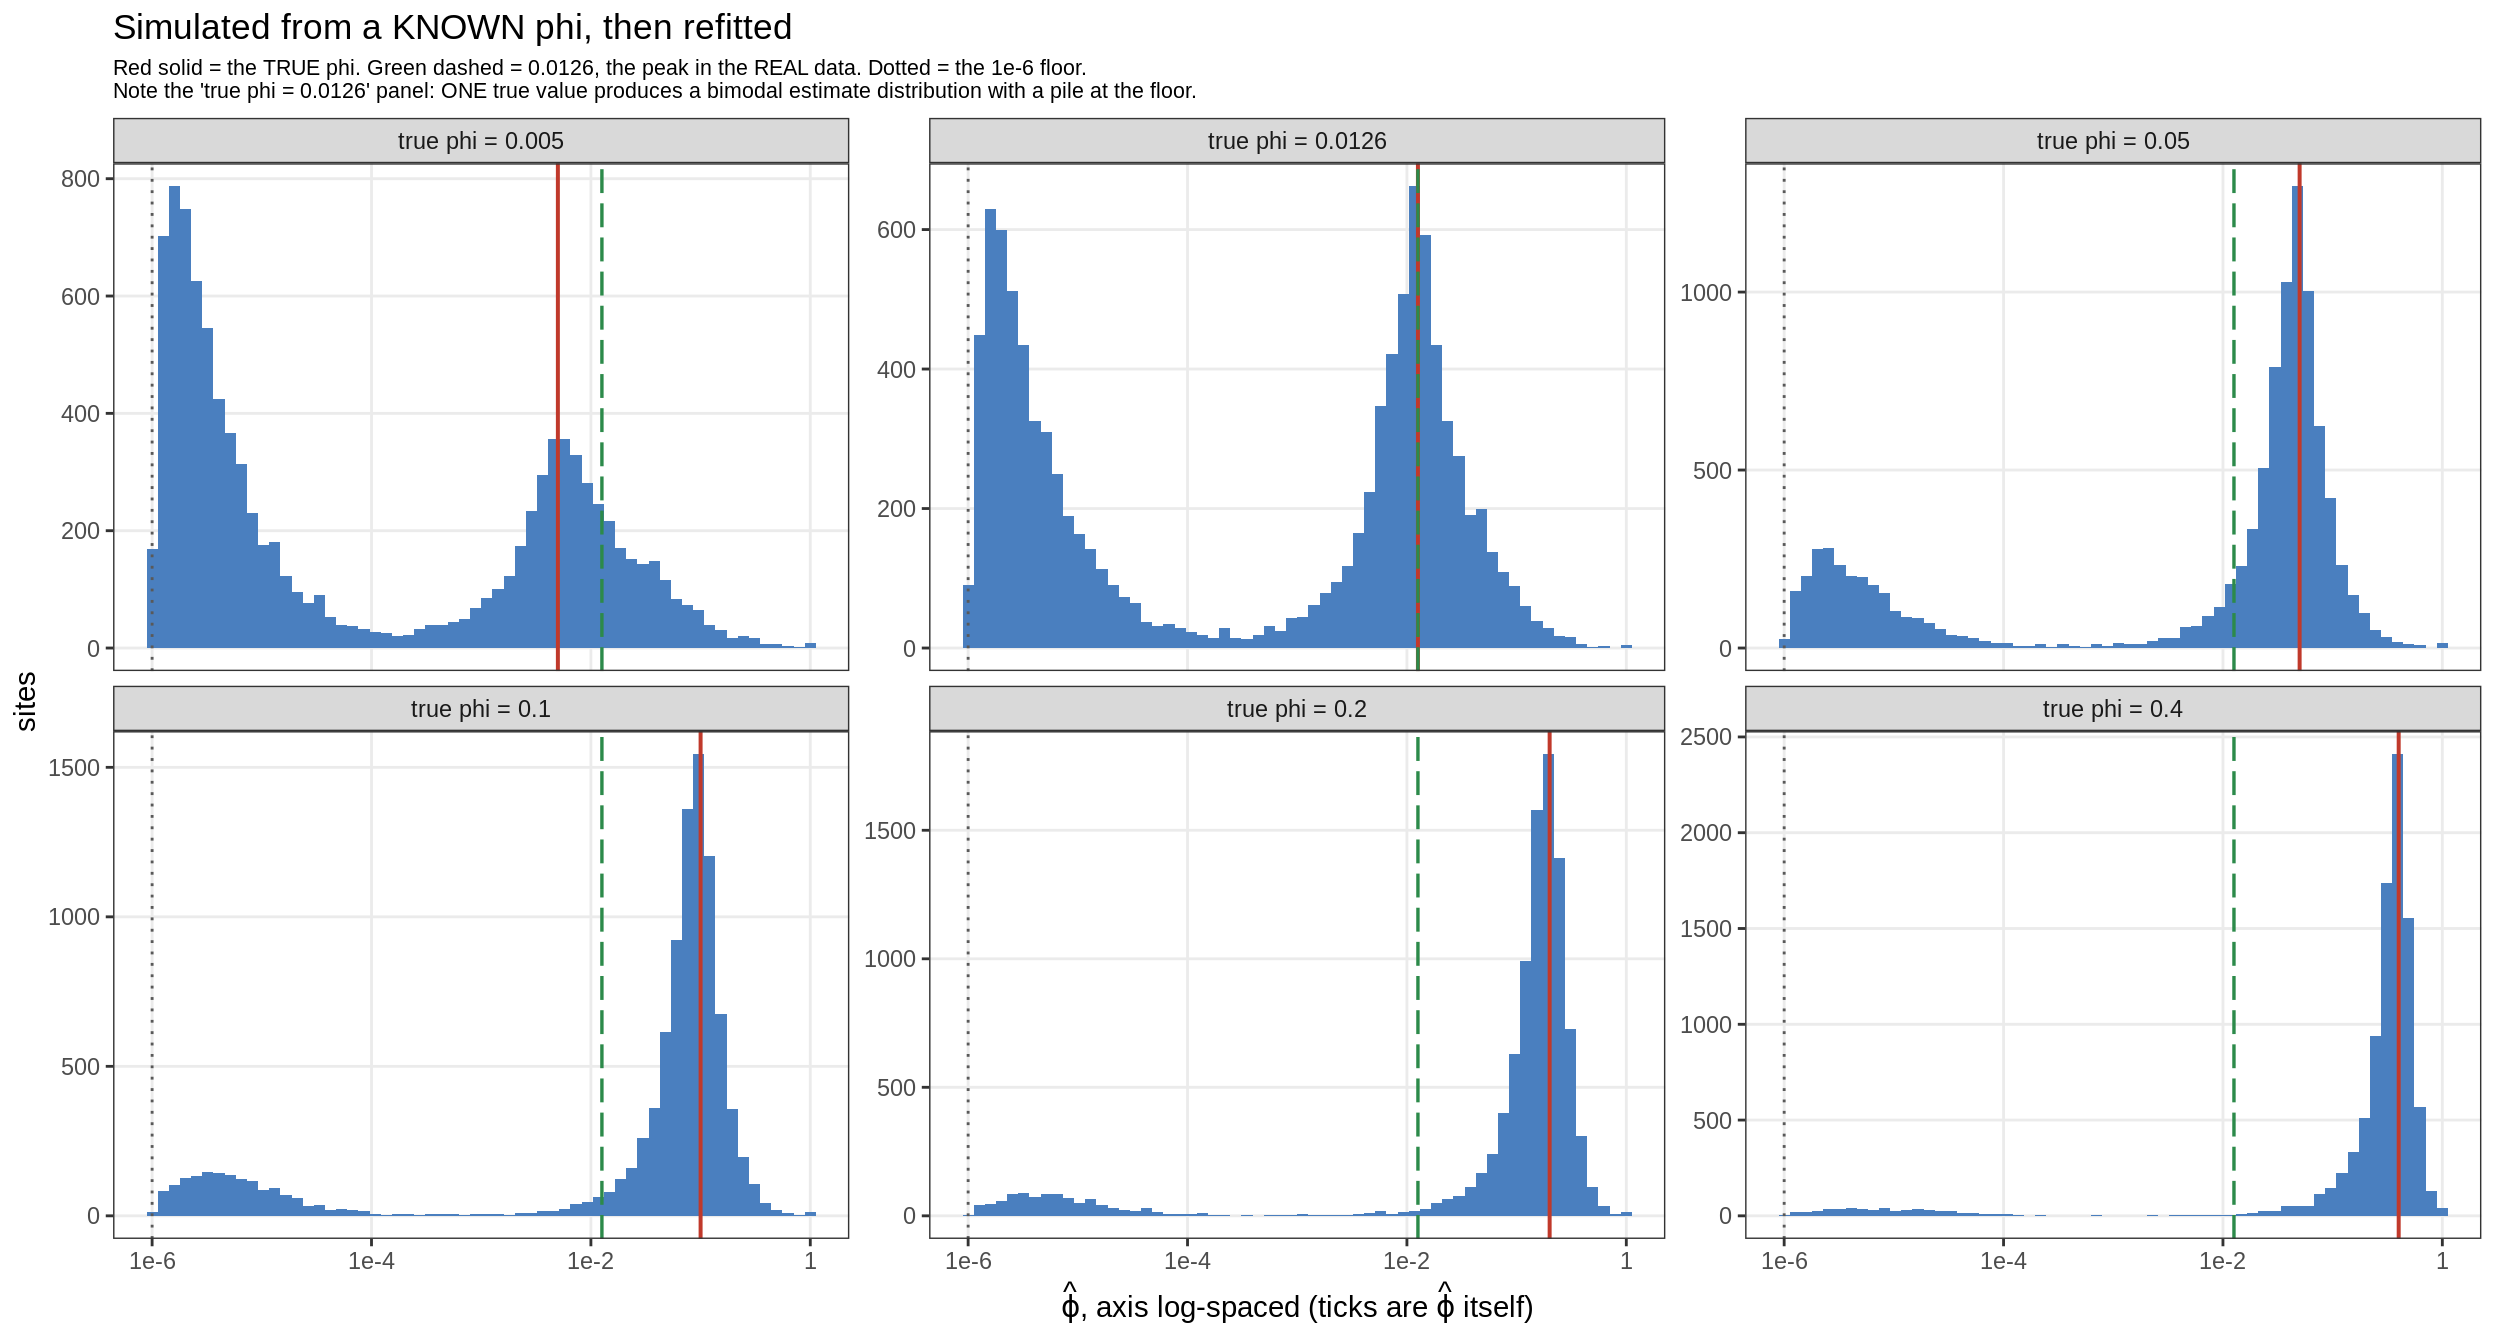
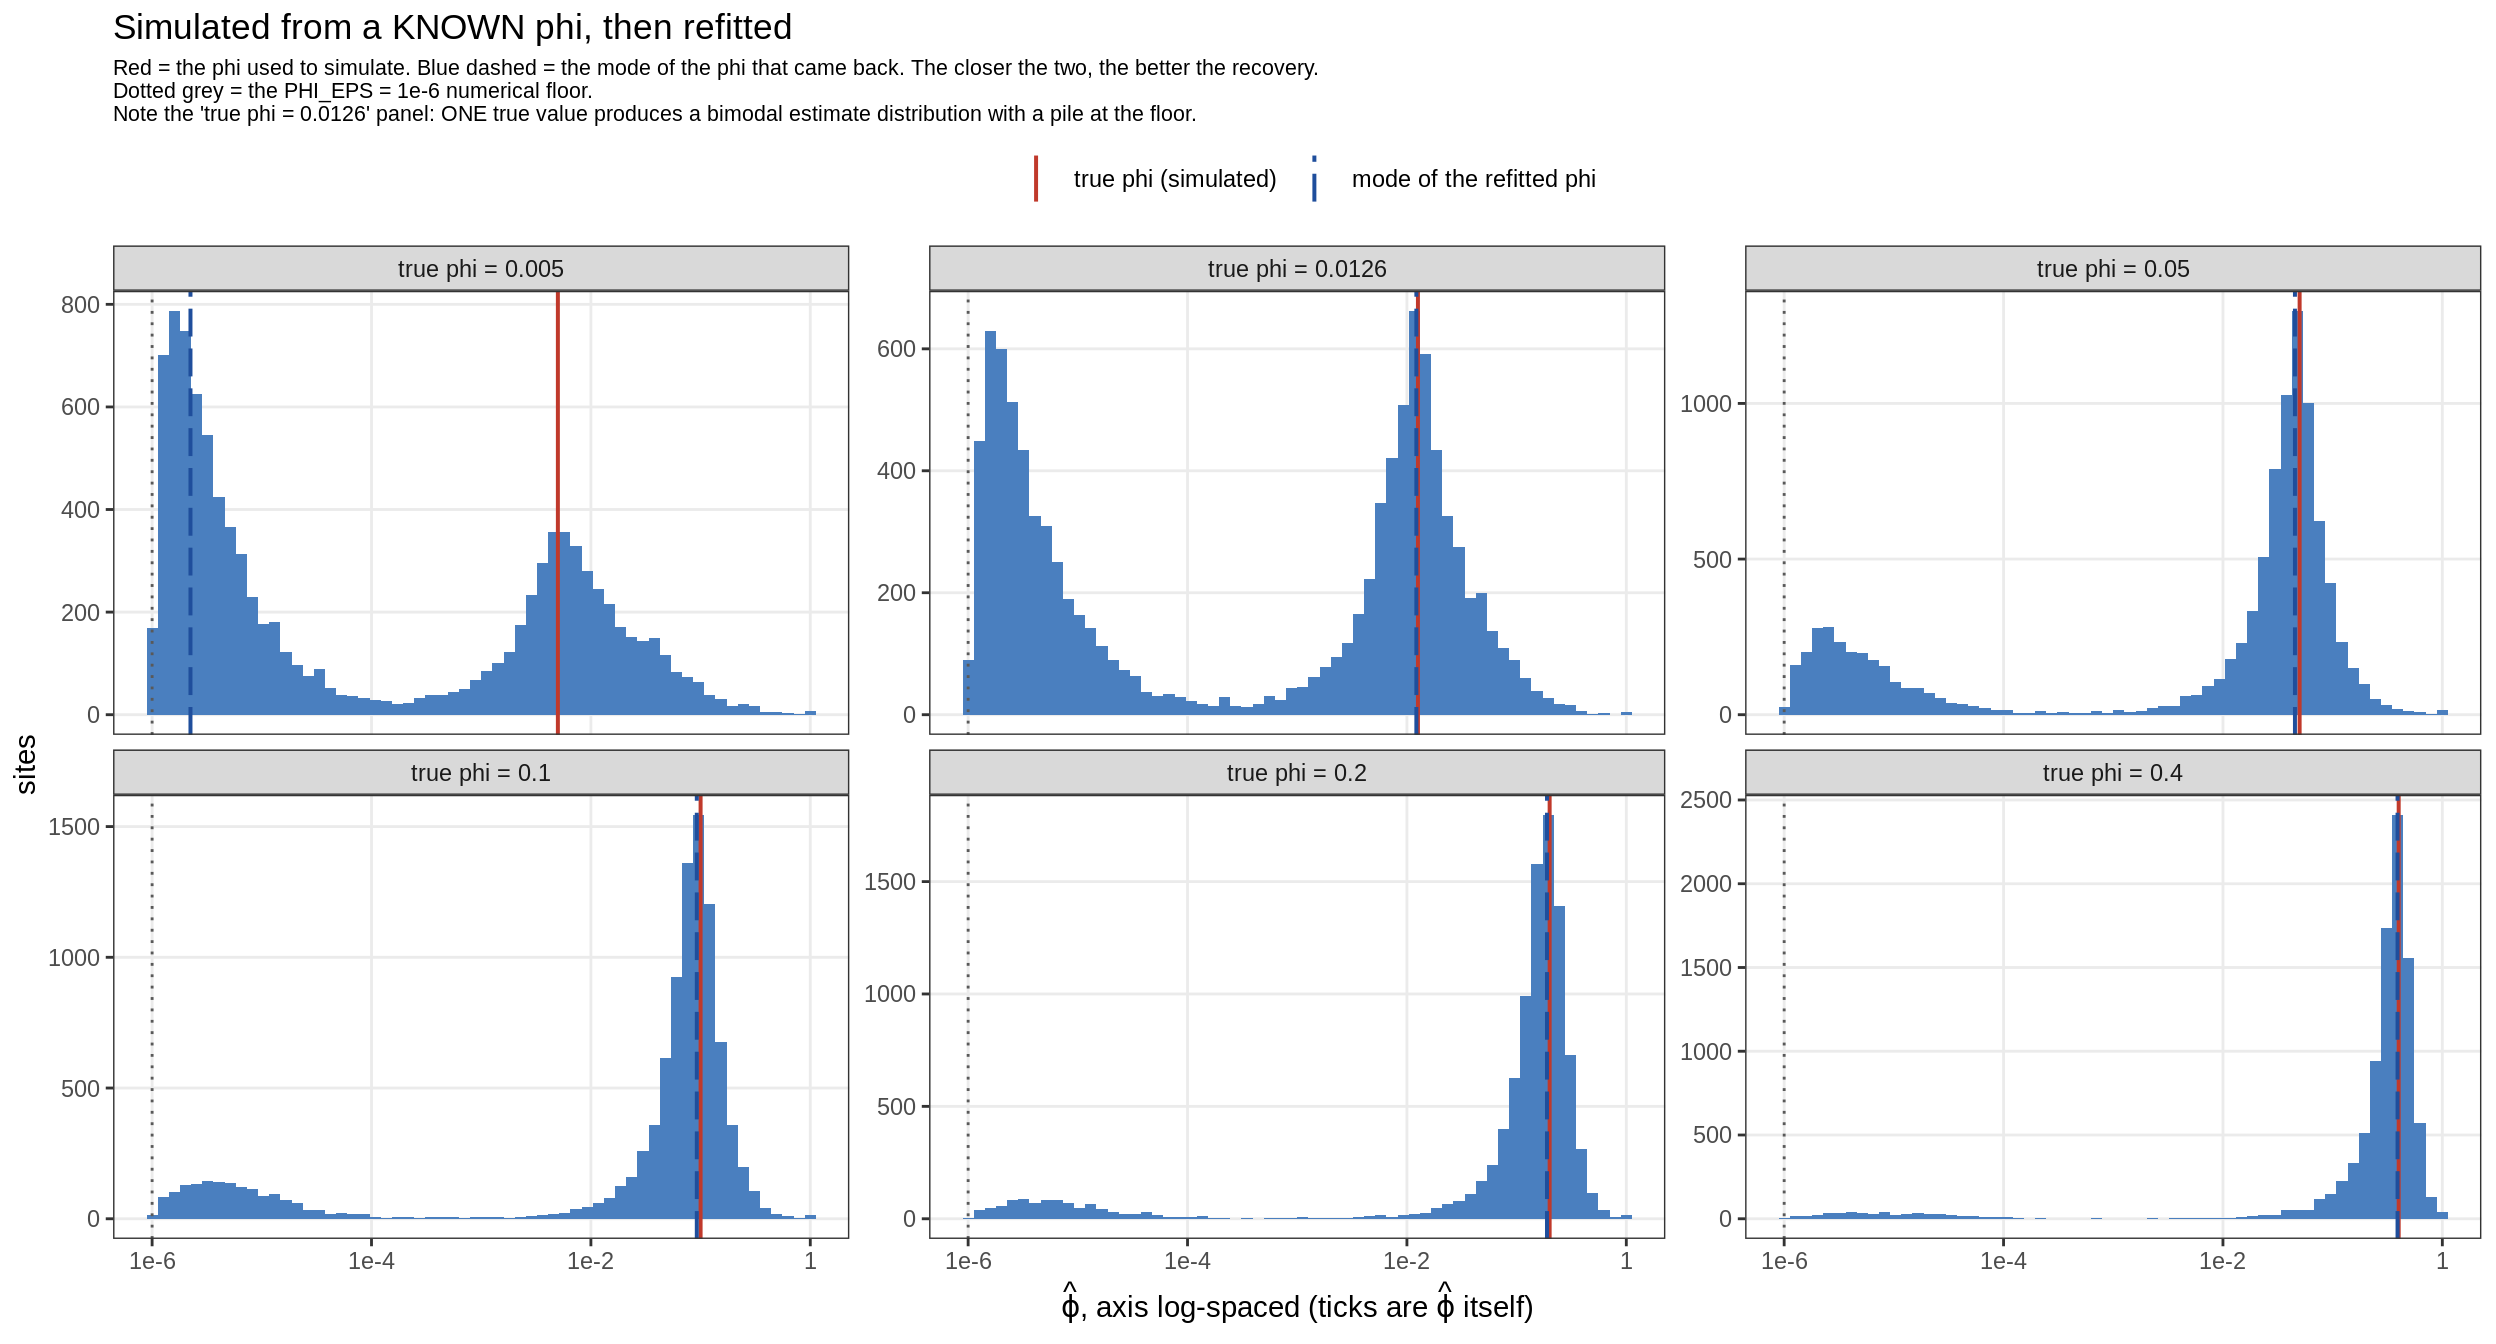
update

diff --git a/docs/qtl_mapping_betabinomial_lowphi.html b/docs/qtl_mapping_betabinomial_lowphi.html
@@ -537,15 +537,15 @@ project makes it easier to run your code on other machines.</p>
 <div class="panel panel-default">
 <div class="panel-heading">
 <p class="panel-title">
-<a data-toggle="collapse" data-parent="#workflowr-checks" href="#strongRepositoryversionstrongahrefhttpsgithubcomxsun1229pumseqtreecb6168907f22f43f300e4364dee666a8e3d73395targetblankcb61689a">
+<a data-toggle="collapse" data-parent="#workflowr-checks" href="#strongRepositoryversionstrongahrefhttpsgithubcomxsun1229pumseqtreefe36e473bfe11ea944f859926a525850853a96c7targetblankfe36e47a">
 <span class="glyphicon glyphicon-ok text-success"
 aria-hidden="true"></span> <strong>Repository version:</strong>
-<a href="https://github.com/xsun1229/pumseq/tree/cb6168907f22f43f300e4364dee666a8e3d73395" target="_blank">cb61689</a>
+<a href="https://github.com/xsun1229/pumseq/tree/fe36e473bfe11ea944f859926a525850853a96c7" target="_blank">fe36e47</a>
 </a>
 </p>
 </div>
 <div
[2 lines of base64/hex data omitted]
 class="panel-collapse collapse">
 <div class="panel-body">
 <p>
@@ -555,7 +555,7 @@ reproducibility.
 </p>
 <p>
 The results in this page were generated with repository version
-<a href="https://github.com/xsun1229/pumseq/tree/cb6168907f22f43f300e4364dee666a8e3d73395" target="_blank">cb61689</a>.
+<a href="https://github.com/xsun1229/pumseq/tree/fe36e473bfe11ea944f859926a525850853a96c7" target="_blank">fe36e47</a>.
 See the <em>Past versions</em> tab to see a history of the changes made
 to the R Markdown and HTML files.
 </p>
@@ -620,6 +620,40 @@ Message
 </tr>
 </thead>
 <tbody>
+<tr>
+<td>
+Rmd
+</td>
+<td>
+<a href="https://github.com/xsun1229/pumseq/blob/fe36e473bfe11ea944f859926a525850853a96c7/analysis/qtl_mapping_betabinomial_lowphi.Rmd" target="_blank">fe36e47</a>
+</td>
+<td>
+XSun
+</td>
+<td>
+2026-09-14
+</td>
+<td>
+update
+</td>
+</tr>
+<tr>
+<td>
+html
+</td>
+<td>
+<a href="https://rawcdn.githack.com/xsun1229/pumseq/fe36e473bfe11ea944f859926a525850853a96c7/docs/qtl_mapping_betabinomial_lowphi.html" target="_blank">fe36e47</a>
+</td>
+<td>
+XSun
+</td>
+<td>
+2026-09-14
+</td>
+<td>
+update
+</td>
+</tr>
 <tr>
 <td>
 Rmd
@@ -827,23 +861,37 @@ below what our depth can resolve.</p>
 PT &lt;- sort(unique(RB$phi_true))
 RB[, panel := factor(sprintf(&quot;true phi = %g&quot;, phi_true),
                      levels = sprintf(&quot;true phi = %g&quot;, PT))]
-vl &lt;- unique(RB[, .(panel, phi_true)])
+# two reference lines per panel: the phi used to SIMULATE, and the mode of what
+# came back. Their agreement is the whole result, so nothing else is marked.
+vl &lt;- melt(merge(unique(RB[, .(panel, phi_true)]),
+                 RS[, .(phi_true, mode = `mode phi_hat`)], by = &quot;phi_true&quot;),
+           id.vars = c(&quot;panel&quot;, &quot;phi_true&quot;), measure.vars = c(&quot;phi_true&quot;, &quot;mode&quot;),
+           variable.name = &quot;what&quot;, value.name = &quot;x&quot;)
+vl[, what := factor(ifelse(what == &quot;phi_true&quot;, &quot;true phi (simulated)&quot;,
+                           &quot;mode of the refitted phi&quot;),
+                    levels = c(&quot;true phi (simulated)&quot;, &quot;mode of the refitted phi&quot;))]
 ggplot(RB, aes(phi_hat)) +
   geom_histogram(bins = 60, fill = &quot;#4a7fbf&quot;, colour = NA) +
-  geom_vline(data = vl, aes(xintercept = phi_true), colour = &quot;#c0392b&quot;, linewidth = 0.7) +
-  geom_vline(xintercept = MLE_PEAK, colour = &quot;#2c8a4a&quot;, linewidth = 0.6, linetype = &quot;longdash&quot;) +
   geom_vline(xintercept = PHI_EPS, colour = &quot;grey35&quot;, linetype = &quot;dotted&quot;) +
+  geom_vline(data = vl, aes(xintercept = x, colour = what, linetype = what),
+             linewidth = 0.7) +
   facet_wrap(~ panel, nrow = 2, scales = &quot;free_y&quot;) +
   scale_x_log10(breaks = 10^seq(-6, 0, 2), labels = c(&quot;1e-6&quot;, &quot;1e-4&quot;, &quot;1e-2&quot;, &quot;1&quot;)) +
+  scale_colour_manual(values = c(&quot;true phi (simulated)&quot; = &quot;#c0392b&quot;,
+                                 &quot;mode of the refitted phi&quot; = &quot;#1f4e9c&quot;), name = NULL) +
+  scale_linetype_manual(values = c(&quot;true phi (simulated)&quot; = &quot;solid&quot;,
+                                   &quot;mode of the refitted phi&quot; = &quot;longdash&quot;), name = NULL) +
   labs(x = expression(hat(varphi)*&quot;, axis log-spaced (ticks are &quot;*hat(varphi)*&quot; itself)&quot;),
        y = &quot;sites&quot;,
        title = &quot;Simulated from a KNOWN phi, then refitted&quot;,
        subtitle = paste(
-         &quot;Red solid = the TRUE phi. Green dashed = 0.0126, the peak in the REAL data. Dotted = the 1e-6 floor.&quot;,
+         &quot;Red = the phi used to simulate. Blue dashed = the mode of the phi that came back. The closer the two, the better the recovery.&quot;,
+         &quot;Dotted grey = the PHI_EPS = 1e-6 numerical floor.&quot;,
          &quot;Note the &#39;true phi = 0.0126&#39; panel: ONE true value produces a bimodal estimate distribution with a pile at the floor.&quot;,
          sep = &quot;\n&quot;)) +
   theme_bw(base_size = 11) +
-  theme(panel.grid.minor = element_blank(), plot.subtitle = element_text(size = 8))</code></pre>
+  theme(legend.position = &quot;top&quot;, panel.grid.minor = element_blank(),
+        plot.subtitle = element_text(size = 8))</code></pre>
 <p><img src="figure/qtl_mapping_betabinomial_lowphi.Rmd/recfig-1.png" width="1248" style="display: block; margin: auto;" /></p>
 <p>
 <button type="button" class="btn btn-default btn-xs btn-workflowr btn-workflowr-fig" data-toggle="collapse" data-target="#fig-recfig-1">
